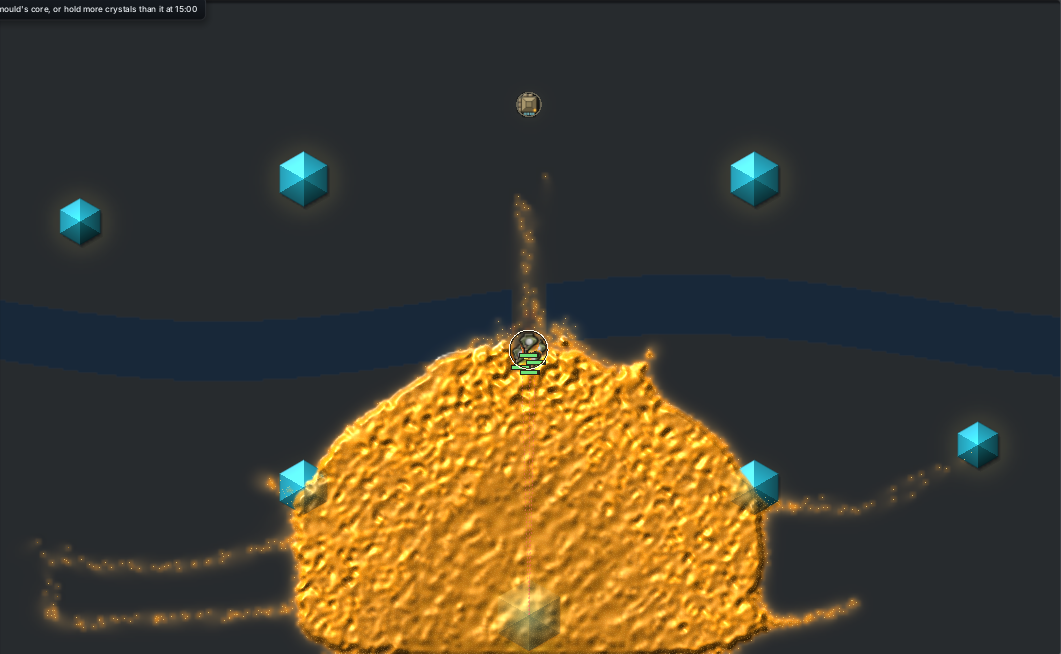
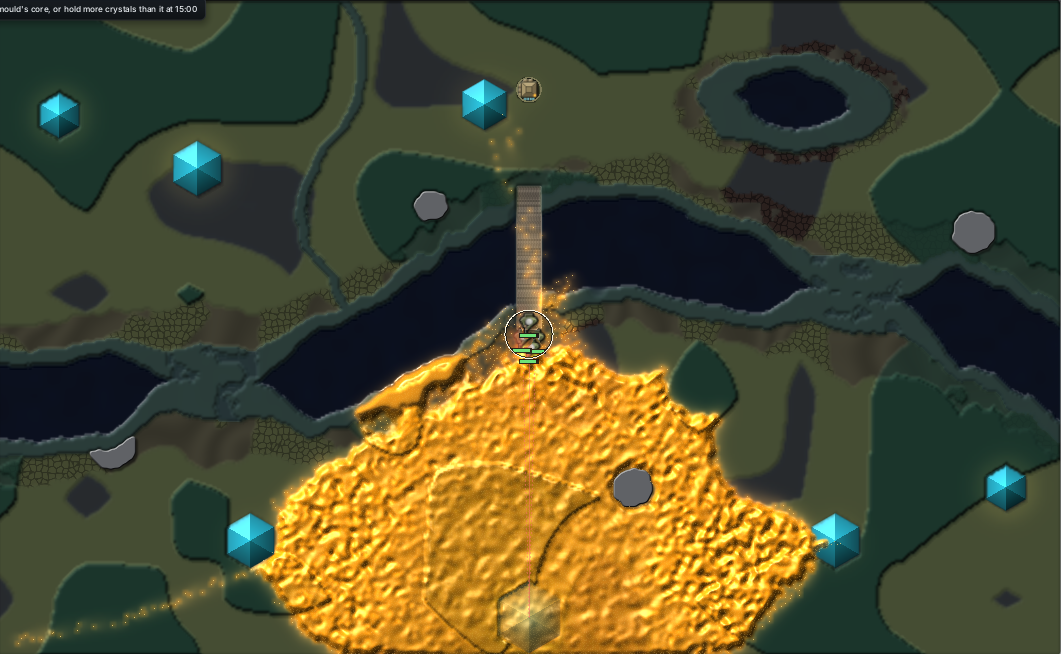
Ground kinds page re-filmed on main: River v2 with the water and plank materials
Idle 150 s: walkers 24,962 -> 21,057, 76 shots, 124 killed; rush over the
bridge: 38 shots, 501 killed, squad down at 12 s.

Claude-Session: https://claude.ai/code/session_01PYHSSwb3QuQBzwCo8HskwL

diff --git a/Reports/ground-kinds-2026-11-14/page/index.html b/Reports/ground-kinds-2026-11-14/page/index.html
@@ -44,20 +44,20 @@ code { font-family: var(--mono); font-size: 0.9em; }
   </section>
 
   <section>
-    <h2>The River, idle squad, 0 to 150 s</h2>
+    <h2>The River, idle squad, 5 to 150 s</h2>
     <img src="river-idle.gif" alt="Whole River map over 150 seconds: the slime holds the south bank and sends a thin tongue up the bridge">
-    <p>A new sixth sandbox map (<code>map=river</code>, also in the menu): a deep river across the middle, fords near each edge, a bridge in the middle. Seed 1, shape C. The slime holds the south bank and reaches north only up the bridge; its edge thins where it presses into the water. Counts from the film: walkers 25,323 at 15 s, 25,513 at 90 s, 25,063 at 150 s; crystals left 0.965 at 150 s.</p>
+    <p>The River map, version 2 (<code>map=river</code>, also in the menu), on main with the terrain thread's water and plank materials. The river's course and width wander. A dark deep channel sits inside a lighter shallow margin, with sand and clay banks. There are two long shallow fords with sand bars, plus a pond, a creek and a plank bridge. Seed 1, shape C, nobody playing. Counts from the film: walkers 24,962 at 15 s, 22,383 at 90 s and 21,057 at 150 s. The idle squad fired 76 shots and killed 124. Crystals left: 0.967 at 150 s.</p>
   </section>
 
   <section>
     <h2>A rush, close in, 2 to 16 s</h2>
     <img src="river-rush-near.gif" alt="Four soldiers walk down to the bridge and onto the south bank, into the slime">
-    <p>The rush hand sends the squad at the core: its path goes over the bridge, the nearest crossing, and never into the deep. It fired 30 shots and killed 528 walkers before the squad fell at 12 s on the slime's own bank.</p>
+    <p>The rush hand sends the squad at the core: its path goes over the bridge, the nearest crossing, and never into the deep. It fired 38 shots and killed 501 walkers before the squad fell at 12 s on the slime's own bank.</p>
   </section>
 
   <section>
     <h2>What's checked</h2>
     <p>A soldier sent across a river crosses only on the ford or bridge and never stands in deep water; a bullet flies its whole leg across water; walkers in deep water drift less than 0.7 as far as on wet ground and none is born there. The GPU engine matches the CPU for one tick on soil bands that include deep water (1,053 walkers in it, 0 off). The map editor has Deep (7) and Bridge (8) brushes and warns when water cuts the landing off a crystal or nest.</p>
-    <p class="note">The look is a stand-in: deep water draws as ordinary wet today, so fords don't yet show. The terrain thread is giving deep water and bridges their own materials.</p>
+    <p class="note">The films were re-made at 20:18Z on main, after #285 and the terrain thread's #292 had merged. The first version of this page showed the flat stand-in look the owner rejected at 18:01Z.</p>
   </section>
 </main>

diff --git a/Reports/pages.md b/Reports/pages.md
@@ -120,7 +120,7 @@ if the link ever stops working. Newest last.
 | 11-14 | Guns Without Recharge (rifles on gas and blast and a scattergun on blast, before and after, from 0:19 to 0:22 on Fork seed 1; the loadout strip; counts) | https://claude.ai/artifact/YPVWVXcwbPaPQsTGzRvDZF | `no-recharge-2026-11-14/` (open `index.html`; frames from `larder-world look=`) |
 | 11-14 | Rolled Bullets (sets and costs; the loadout strip with set badges; standard against needle gas and slug blast; plain bullets in four sets; a rolled load on a rifle and a scattergun; 0:19 to 0:22 on Fork seed 1, counts) | https://claude.ai/artifact/5LDB46fERtjeUTL9Bexz6U | `rolled-bullets-2026-11-14/` (open `index.html`; frames from `larder-world look=`) |
 | 11-14 | Roguelike Planets (planets 1-8 of the run, seeds 1 and 2, the whole map every 10 s for two minutes with nobody playing, mould walkers and kills under each; two close clips near the squad) | https://claude.ai/artifact/RYfaQD8SGMSMSuaKZtaD5P | `levelgen-2026-11-14/page/` (open `index.html`; frames from `larder-world map=planet:D:S seed=S look=DIR hand=idle at=1,10,...,120 screen=1280x800` on llvmpipe, GIFs and counts by `raw/make_gifs.py`, page by `raw/make_page.py`) |
-| 11-14 | Plants and Fire (two bombs light a meadow on planet 2 seed 1 with stand-in plants, whole map 1-45 s and close up 1-30 s; slime counts, fire damage, cost) | https://claude.ai/artifact/5pChXx8qdHxa3qwwP27HdY | `plants-2026-11-14/page/` (open `index.html`; frames from `raw/films.sh` on llvmpipe, GIFs by `raw/make_gifs.py`) |
+| 11-14 | Plants and Fire (two bombs light a meadow on planet 2 seed 1 with stand-in plants, whole map 1-45 s and close up 1-30 s; slime counts, fire damage, cost) | https://claude.ai/artifact/5pChXx8qdHxa3qwwP27HdY | `plants-2026-11-14/page/` (open `index.html`; frames from `raw/films.sh` on llvmpipe, GIFs by `raw/make_gifs.py`; re-filmed 20:18Z on main after #285 and #292, logs `raw/*-v2.log`) |
 | 11-14 | Planet Layouts Round 2 (the graphics lead's fixes: planets 1-8, seeds 1 and 2, films every 10 s to two minutes with nobody playing and counts, round 1 and round 2 in grey at 1 s, contact sheets, the layouts in false colour, two close clips) | https://claude.ai/artifact/SJRBVoTF3yyEgfJvh6Da7t | `levelgen-2026-11-14/page2/` (open `index.html`; frames from `larder-world map=planet:D:S seed=S look=DIR hand=idle at=1,10,...,120 screen=1280x800` on llvmpipe, by `raw/films-look2.sh`; GIFs `raw/make_gifs.py`, grey `raw/make_grey.py`, false colour `raw/layout_sheet.py`, page `raw/make_page2.py`) |
 | 11-14 | Planet Biomes Round 3 (eight biomes on four dials: planets 1-8, seeds 1 and 2, films every 10 s to two minutes with nobody playing, each with its dials and counts; seeds 1-3 of every planet in false colour and grey; the 400-planet check) | https://claude.ai/artifact/8YTtSxUEGnXivr6VejCaNU | `levelgen-2026-11-14/page3/` (open `index.html`; frames from `larder-world map=planet:D:S seed=S look=DIR hand=idle at=1,10,...,120 screen=1280x800` on llvmpipe, by `raw/films-look3.sh`; GIFs `raw/make_gifs.py`, sheet `raw/biome_sheet.py`, page `raw/make_page3.py`) |
-| 11-14 | Deep Water and Bridges (the River map: the whole map every 5 s for 150 s with nobody playing, and a close clip of a rush over the bridge; counts) | https://claude.ai/artifact/9kdKYHvn4wv3zPHvsbfLQy | `ground-kinds-2026-11-14/page/` (open `index.html`; frames from `larder-world map=river seed=1 look=DIR hand=idle at=5,10,...,150 screen=1280x800` and `hand=rush at=2,4,...,60` on llvmpipe, GIFs by `raw/make_gifs.py`) |
+| 11-14 | Deep Water and Bridges (the River map: the whole map every 5 s for 150 s with nobody playing, and a close clip of a rush over the bridge; counts) | https://claude.ai/artifact/9kdKYHvn4wv3zPHvsbfLQy | `ground-kinds-2026-11-14/page/` (open `index.html`; frames from `larder-world map=river seed=1 look=DIR hand=idle at=5,10,...,150 screen=1280x800` and `hand=rush at=2,4,...,60` on llvmpipe, GIFs by `raw/make_gifs.py`; re-filmed 20:18Z on main after #285 and #292, logs `raw/*-v2.log`) |
